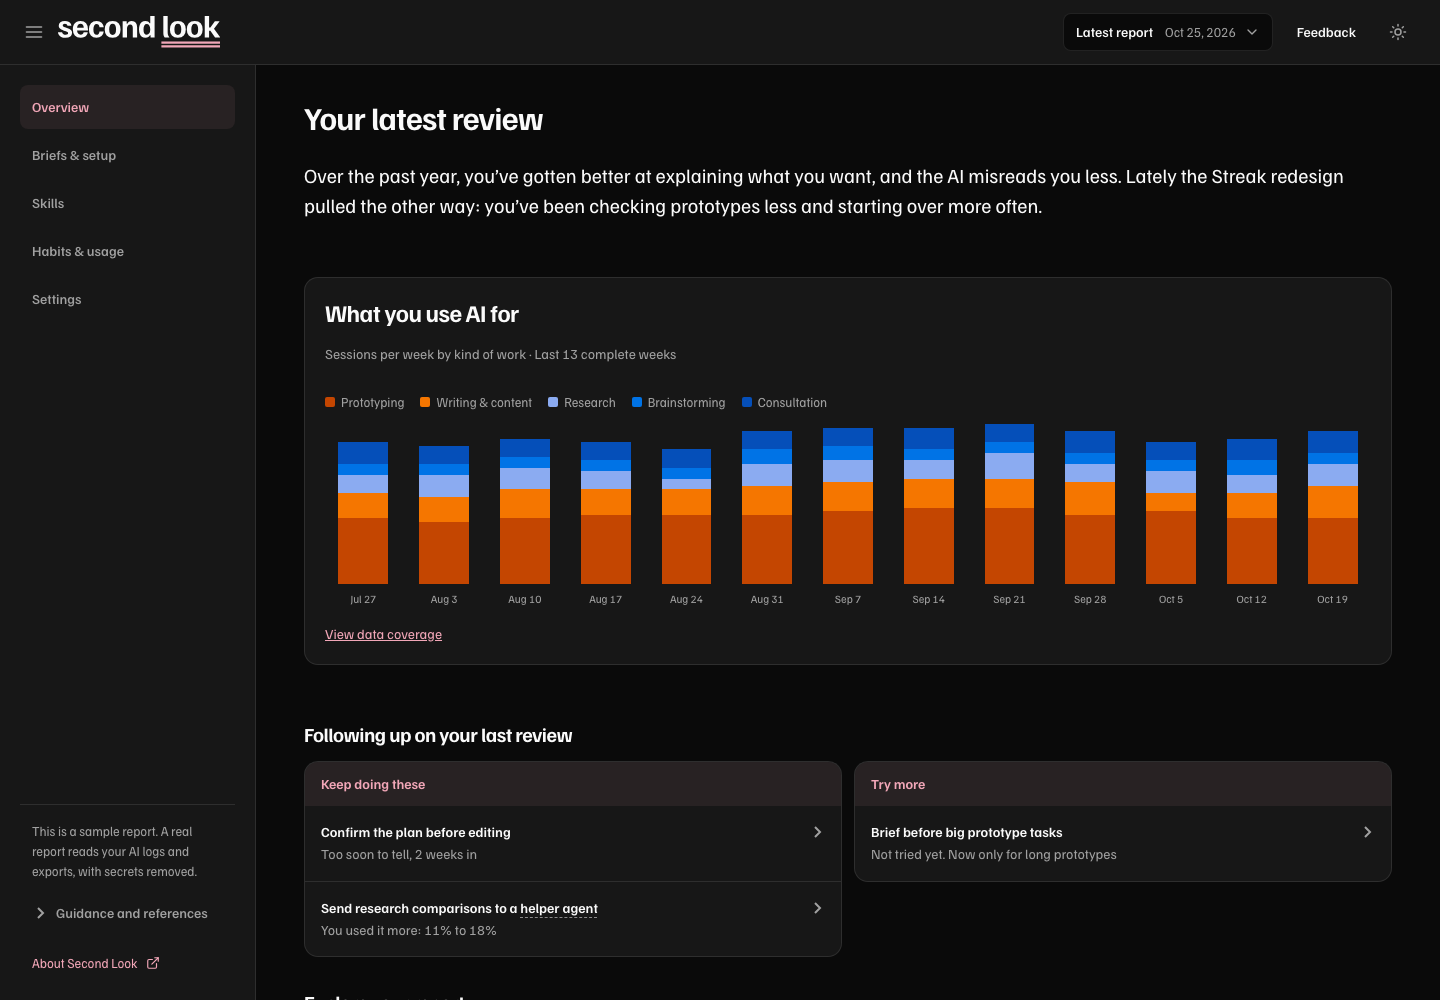
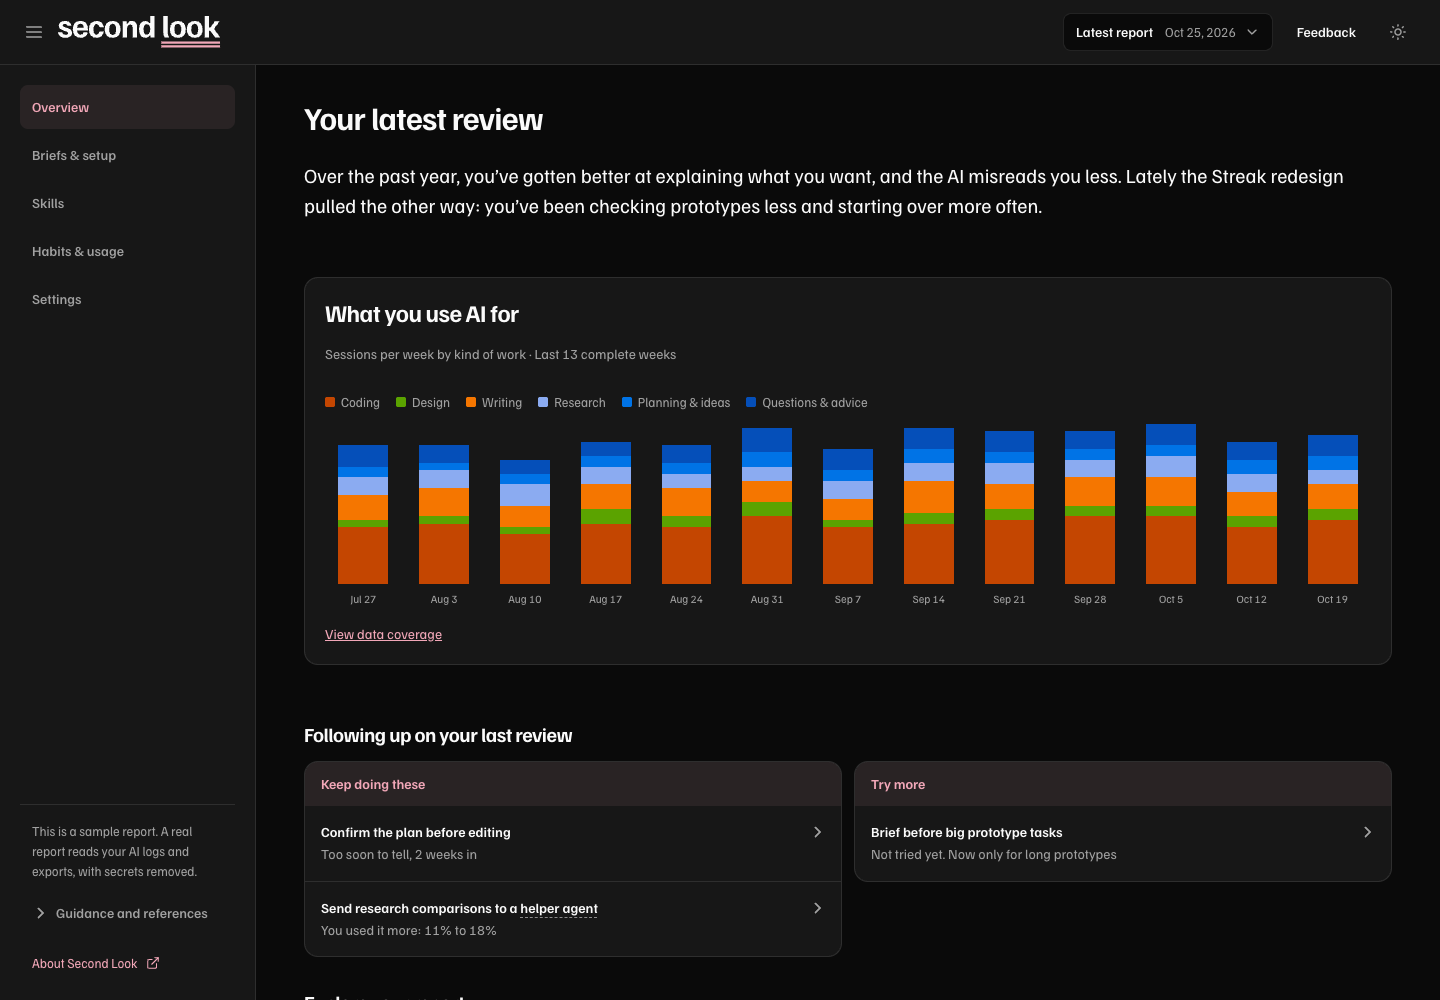
Use general kinds of work for AI builders
The "What you use AI for" chart now groups sessions as Coding, Design,
Writing, Research, Planning & ideas, and Questions & advice. Career folds
into Questions & advice. history.json rows saved under the old ids are
renamed on load so weekly trends stay continuous.

diff --git a/plugins/second-look/skills/second-look/report-template.html b/plugins/second-look/skills/second-look/report-template.html
@@ -1196,14 +1196,14 @@ stackTables();
 // ---- trends with filters ----
 (function () {
   const SOURCES = [["claude_ai", "claude.ai"], ["claude_code", "Claude Code"], ["codex", "Codex"], ["cursor", "Cursor"], ["antigravity", "Antigravity"], ["chatgpt", "ChatGPT"], ["gemini_web", "Gemini"]];
-  const CATS = [["prototyping", "Prototyping"], ["creating", "Writing & content"], ["research", "Research"], ["brainstorming", "Brainstorming"], ["career", "Career"], ["consultation", "Consultation"]];
-  const BUILD = new Set(["prototyping", "creating", "research"]);
+  const CATS = [["coding", "Coding"], ["design", "Design"], ["writing", "Writing"], ["research", "Research"], ["planning", "Planning & ideas"], ["advice", "Questions & advice"]];
+  const BUILD = new Set(["coding", "design", "writing", "research"]);
   const name = (list, id) => list.find(x => x[0] === id)[1];
 
   // ---- report data: a real report replaces these four values with the collector's output ----
   // END: the Monday of the last complete week, "YYYY-MM-DD" (the collector's last_complete_week). The charts retain all available weeks up to it.
   const END = "2026-10-19";
-  // CUBE: the collector's "cube" array, pasted as is: [{"week": "YYYY-MM-DD", "source": "claude_code", "category": "prototyping", "project": "Atlas", "sessions": 3, ...}, ...]
+  // CUBE: the collector's "cube" array, pasted as is: [{"week": "YYYY-MM-DD", "source": "claude_code", "category": "coding", "project": "Atlas", "sessions": 3, ...}, ...]
   // Keep all historical rows. Only weeks after END are excluded from charts.
   const CUBE = sampleCube();
   // SCOPE: the collector's "scope" object, pasted as is. What each source can show.
@@ -1230,8 +1230,8 @@ stackTables();
 
   const esc = s => String(s).replace(/&/g, "&amp;").replace(/</g, "&lt;").replace(/>/g, "&gt;");
   const CHART_CATEGORIES = {
-    prototyping: "orange", creating: "orange-bright", research: "blue-light",
-    brainstorming: "blue", career: "green", consultation: "blue-deep", other: "lime"
+    coding: "orange", design: "green", writing: "orange-bright", research: "blue-light",
+    planning: "blue", advice: "blue-deep", other: "lime"
   };
   const chartPaint = color => `--chart-fill:var(--chart-${color})`;
   const categoryPaint = id => chartPaint(CHART_CATEGORIES[id] || CHART_CATEGORIES.other);
@@ -1360,11 +1360,11 @@ stackTables();
   };
   const mix = src => {
     return {
-      claude_ai: {prototyping: .1, creating: .2, research: .2, brainstorming: .15, career: 0, consultation: .22},
-      chatgpt: {prototyping: .02, creating: .15, research: .2, brainstorming: .13, career: 0, consultation: .5},
-      claude_code: {prototyping: .72, creating: .14, research: .04, brainstorming: 0, career: 0, consultation: 0},
-      codex: {prototyping: .9, creating: .1, research: 0, brainstorming: 0, career: 0, consultation: 0},
-      cursor: {prototyping: .9, creating: .1, research: 0, brainstorming: 0, career: 0, consultation: 0},
+      claude_ai: {coding: .1, design: .05, writing: .2, research: .2, planning: .15, advice: .22},
+      chatgpt: {coding: .02, design: 0, writing: .15, research: .2, planning: .13, advice: .5},
+      claude_code: {coding: .62, design: .1, writing: .14, research: .04, planning: 0, advice: 0},
+      codex: {coding: .9, design: 0, writing: .1, research: 0, planning: 0, advice: 0},
+      cursor: {coding: .8, design: .1, writing: .1, research: 0, planning: 0, advice: 0},
     }[src];
   };
   // usage: only Claude Code and Codex log tokens
@@ -1374,7 +1374,7 @@ stackTables();
   };
   // agent checks: only Claude Code and Codex log tool calls
   const agentChecks = (src, c, sessions, i) => {
-    const edited = (src === "claude_code" || src === "codex") && c === "prototyping" ? rr(sessions * 0.7) : 0;
+    const edited = (src === "claude_code" || src === "codex") && c === "coding" ? rr(sessions * 0.7) : 0;
     const logged = src === "claude_code" || src === "codex" ? sessions : 0;
     const agent_checked = rr(edited * ramp(0.55, 0.72, i, 10, 40) * (i >= 48 ? 0.6 : 1)), unchecked_ships = rr(edited * (i >= 48 ? 0.25 : 0.08));
     const delegated = rr(logged * ramp(0, 0.18, i, 30, 51)), read_heavy = rr(logged * ramp(0.16, 0.09, i, 30, 51));
@@ -1396,14 +1396,14 @@ stackTables();
     CATS.forEach(([c]) => {
       const sessions = rr(n * m[c] / tot * (0.85 + rnd() * 0.3));
       if (!sessions) return;
-      const proto = c === "prototyping";
-      const pps = proto ? 9 : c === "consultation" ? 3 : 6;
+      const proto = c === "coding";
+      const pps = proto ? 9 : c === "advice" ? 3 : 6;
       const prompts = rr(sessions * pps);
-      const brief = clamp(ramp(0.2, 0.56, i, 18, 32) - (proto ? 0.14 : 0) + (c === "career" ? 0.12 : 0));
+      const brief = clamp(ramp(0.2, 0.56, i, 18, 32) - (proto ? 0.14 : 0));
       const corr = ramp(0.19, 0.088, i, 19, 30) + (proto ? 0.05 : 0);
       const check = BUILD.has(c) ? clamp(proto && i >= 48 ? 0.18 : ramp(0.3, 0.46, i, 10, 40)) : 0;
       const restart = clamp(proto && i >= 48 ? 0.22 : ramp(0.13, 0.06, i, 18, 34));
-      const skill = clamp(i < 19 ? 0 : ramp(0.05, 0.45, i, 19, 51) + (c === "career" ? 0.15 : 0));
+      const skill = clamp(i < 19 ? 0 : ramp(0.05, 0.45, i, 19, 51));
       const retype = i < 37 ? 0.55 : 0.18;
       rows.push({week: iso(i), source: src, category: c, project: ["claude_code", "codex"].includes(src) ? ["Streak", "Atlas", "Fieldnotes"][i % 3] : "", sessions, prompts, briefable: sessions,
         briefed: rr(sessions * brief), corrections: rr(prompts * corr), refinements: rr(sessions * ramp(1.2, 2.4, i, 10, 40)),

diff --git a/plugins/second-look/skills/second-look/scripts/collect.py b/plugins/second-look/skills/second-look/scripts/collect.py
@@ -93,16 +93,18 @@ PROSE = re.compile(r"\.(md|mdx|txt|rst)$|/\.(claude|codex|cursor|gemini|agents)/
 ACCEPT = re.compile(r"^\s*(lgtm|ship it|looks good|perfect|((ok(ay)?|yes|great|good|perfect)[,.! ]+)?"
                     r"(commit|push|merge|deploy|publish|ship)( it| this| that)?)\b", re.I)
 CATEGORIES = [  # order breaks ties
-    ("career", re.compile(r"recruiter|interview|resume|r[eé]sum[eé]|cover letter|job (description|posting|"
-                               r"search|offer)|hiring manager|salary|negotiat|linkedin|application|offer call", re.I)),
-    ("prototyping", re.compile(r"prototype|\bbuild|implement|component|\bcss\b|react|tailwind|\bbug|error|"
-                               r"\bfix\b|refactor|deploy|\bapi\b|\bmcp\b|script|\bcode\b|function|layout", re.I)),
-    ("creating", re.compile(r"\bwrite|draft|essay|blog|\bpost\b|deck|slides|\bdoc\b|case study|\bcopy\b|"
-                            r"email|rewrite|poster|outline|edit (this|my)", re.I)),
+    ("coding", re.compile(r"prototype|\bbuild|implement|component|\bcss\b|react|tailwind|\bbug|error|"
+                          r"\bfix\b|refactor|deploy|\bapi\b|\bmcp\b|script|\bcode\b|function|\btests?\b", re.I)),
+    ("design", re.compile(r"\bdesign|figma|mock-?up|wireframe|\bui\b|\bux\b|layout|typography|palette|\blogo|"
+                          r"\bicons?\b|artboard|canvas|visual|branding", re.I)),
+    ("writing", re.compile(r"\bwrite|draft|essay|blog|\bpost\b|deck|slides|\bdoc\b|case study|\bcopy\b|"
+                           r"email|rewrite|poster|outline|edit (this|my)|resume|r[eé]sum[eé]|cover letter", re.I)),
     ("research", re.compile(r"research|compare|competit|landscape|sources|studies|market|look up|analy[sz]e|"
                             r"what does the data|benchmark", re.I)),
-    ("brainstorming", re.compile(r"brainstorm|ideas?\b|what if|explore|options|how might|could we|name for|"
-                                 r"concepts?|directions", re.I)),
+    ("planning", re.compile(r"brainstorm|ideas?\b|what if|explore|options|how might|could we|name for|"
+                            r"concepts?|directions|\bplan\b|roadmap|strateg|prioriti", re.I)),
+    ("advice", re.compile(r"advice|should i\b|recommend|interview|salary|negotiat|recruiter|hiring manager|"
+                          r"job (search|offer)", re.I)),
 ]
 # Automation: runs nobody started by hand, jobs set up to recur, work sent off to run alongside,
 # and repeat requests still typed by hand. Claude Code and Codex only, the tools that log tool calls.
@@ -124,7 +126,7 @@ URL = re.compile(r"\S+://\S+")   # paths and domains would make unrelated reques
 COMMENT_BATCH = re.compile(r"^\s*Apply this review feedback to the design\b")   # Pencil's template around review comments
 CODING_TOOLS = {"claude_code", "codex", "cursor", "antigravity"}
 LOGGED = {"claude_code", "codex"}   # the tools that log tool calls and tokens
-BUILD_CATEGORIES = {"prototyping", "creating", "research"}
+BUILD_CATEGORIES = {"coding", "design", "writing", "research"}
 
 
 def clean(text, n=300):
@@ -782,11 +784,11 @@ def classify(source, prompts):
     for text in (prompts[0], CHECK.sub(" ", " ".join(prompts[:3]))):
         scores = {name: len(rx.findall(text)) for name, rx in CATEGORIES}
         if source in CODING_TOOLS:
-            scores["prototyping"] += 1
+            scores["coding"] += 1
         best = max(scores.values())
         if best:
             return next(name for name, _ in CATEGORIES if scores[name] == best)
-    return "consultation"
+    return "advice"
 
 
 def is_briefed(first):

diff --git a/plugins/second-look/skills/second-look/scripts/history.py b/plugins/second-look/skills/second-look/scripts/history.py
@@ -4,6 +4,17 @@ import json
 from pathlib import Path
 from projects import atomic_json, digest
 
+# kind-of-work ids used before Nov 2026. Career has no successor, so it folds into advice
+LEGACY_CATEGORIES = {"prototyping": "coding", "creating": "writing", "brainstorming": "planning",
+                     "consultation": "advice", "career": "advice"}
+
+
+def rename_categories(rows):
+    """Move saved rows to the current kind-of-work ids, merging rows the rename makes identical."""
+    if not any(r.get("category") in LEGACY_CATEGORIES for r in rows):
+        return rows
+    return aggregate([{**r, "category": LEGACY_CATEGORIES.get(r.get("category"), r.get("category"))} for r in rows])
+
 
 def aggregate(rows):
     grouped = {}
@@ -41,10 +52,15 @@ class HistoryStore:
                 if not isinstance(old.get("sessions"), dict) or not isinstance(old.get("legacy"), list):
                     raise ValueError("Invalid history.json; left unchanged")
                 self.data = old
+                for record in self.data["sessions"].values():
+                    category = record["row"].get("category")
+                    record["row"]["category"] = LEGACY_CATEGORIES.get(category, category)
             elif isinstance(old, list) or isinstance(old, dict) and isinstance(old.get("cube"), list):
                 self.data["legacy"] = old if isinstance(old, list) else old["cube"]
             else:
                 raise ValueError("Unknown history.json format; left unchanged")
+        self.data["legacy"] = rename_categories(self.data["legacy"])
+        self.data["cube"] = rename_categories(self.data.get("cube", []))
 
     def update(self, sessions, projects, cube_fn):
         for session in sessions:

diff --git a/tests/test_project_history.py b/tests/test_project_history.py
@@ -55,6 +55,18 @@ class ProjectHistoryTests(unittest.TestCase):
             self.assertIsNone(folder_identity(home,home=home))
             self.assertIsNone(folder_identity(str(Path(home)/'.codex/scratch/chat-1'),home=home))
 
+    def test_old_kind_of_work_ids_are_renamed_on_load(self):
+        with tempfile.TemporaryDirectory() as tmp:
+            path = Path(tmp)/'history.json'
+            path.write_text(json.dumps({"version": 2, "cube": [],
+                "sessions": {"k": {"member": "", "row": {"week": "2026-10-05", "source": "codex", "category": "prototyping", "sessions": 1}}},
+                "legacy": [{"week": "2026-01-05", "source": "chatgpt", "category": "career", "sessions": 2},
+                           {"week": "2026-01-05", "source": "chatgpt", "category": "consultation", "sessions": 3},
+                           {"week": "2026-01-05", "source": "chatgpt", "category": "creating", "sessions": 4}]}))
+            store = HistoryStore(str(path))
+            self.assertEqual(store.data["sessions"]["k"]["row"]["category"], "coding")
+            self.assertEqual({r["category"]: r["sessions"] for r in store.data["legacy"]}, {"advice": 5, "writing": 4})
+
     def test_ledger_survives_deleted_logs_and_regroups_old_sessions(self):
         with tempfile.TemporaryDirectory() as tmp:
             store=ProjectStore(); a=store.register('codex','a','Atlas'); b=store.register('claude_code','b','atlas')

diff --git a/plugins/second-look/skills/second-look/references/design-system.md b/plugins/second-look/skills/second-look/references/design-system.md
@@ -220,7 +220,7 @@ Use dividers between expandable rows and list or table rows. Omit the divider af
 
 Use as few colors as the information needs, within one chart and across a chart group. Labeled bars in separate rows, such as “What you used AI for,” and independently labeled single-series charts use pink first (`--chart-pink`, `#e6308a`). The shared `--series` token is `--chart-pink` in the dark theme and `#D1416B` in the light theme. Habit trends, category/app share bars, helper-agent breakdowns and coverage marks all use it. Row labels, chart titles and values identify what each mark represents; no category legend is needed for these independent marks.
 
-Use more hues only when overlapping or stacked categories need differentiation, with clear legends or direct series labels. Overview's stacked activity chart keeps its stable category mapping: prototyping orange, creating bright orange, research light blue, brainstorming blue, career green, consultation deep blue, and other lime. Filtering or missing categories never shifts those assignments, and its legend uses the same mapping.
+Use more hues only when overlapping or stacked categories need differentiation, with clear legends or direct series labels. Overview's stacked activity chart keeps its stable category mapping: coding orange, design green, writing bright orange, research light blue, planning blue, advice deep blue, and other lime. Filtering or missing categories never shifts those assignments, and its legend uses the same mapping.
 
 The available `--chart-*` palette is orange `#c44601`, bright orange `#f57600`, light blue `#8babf1`, blue `#0073e6`, deep blue `#054fb9`, green `#5ba300`, lime `#89ce00`, pink `#e6308a` and deep pink `#b51963`. Use only the colors that serve a differentiation purpose. They are chart fills, not status grades or replacement brand colors. Use solid fills with the original chart shapes and spacing. Do not add outlines, hatch patterns, shadows or line underlays to the marks. Coverage retains its neutral unavailable-history treatment and a matching pink Data legend.
 

diff --git a/GLOSSARY.md b/GLOSSARY.md
@@ -88,4 +88,13 @@ _Avoid_: Automation (for every fix), auto-fix, apply
 
 ## Work categories
 
-**Writing & content** covers drafting and editing documents, decks, posts, and similar material. **Consultation** covers sessions classified as asking for advice.
+The six kinds of work, read from each session's opening message:
+
+- **Coding** covers building, fixing and shipping software, including prototypes.
+- **Design** covers interfaces, mockups, layouts, visuals and branding.
+- **Writing** covers drafting and editing documents, decks, posts, emails and similar material.
+- **Research** covers looking things up, comparing options and analyzing data.
+- **Planning & ideas** covers brainstorming, plans, roadmaps and priorities.
+- **Questions & advice** covers asking for advice or answers, and any session that fits none of the others.
+
+_Avoid_: Prototyping, Writing & content, Brainstorming, Career, Consultation (the names before Nov 2026)

diff --git a/plugins/second-look/skills/second-look/SKILL.md b/plugins/second-look/skills/second-look/SKILL.md
@@ -744,8 +744,9 @@ needs 5 sessions under it in a 4-week window before it shows, and Untested chang
 window, except Sessions per week, which counts itself. A comparison needs 8 weeks since that
 measure's data began; a quiet week after that counts as a quiet week.
 
-Kinds of work, from each session's opening message: Prototyping, Writing & content, Research,
-Brainstorming, Career, Consultation.
+Kinds of work, from each session's opening message: Coding, Design, Writing, Research,
+Planning & ideas, Questions & advice. A session that matches none of them counts as Questions & advice.
+Reviews saved before Nov 2026 used other names; the collector renames them when it loads history.
 
 ## Rubric (cite when explaining why)
 
